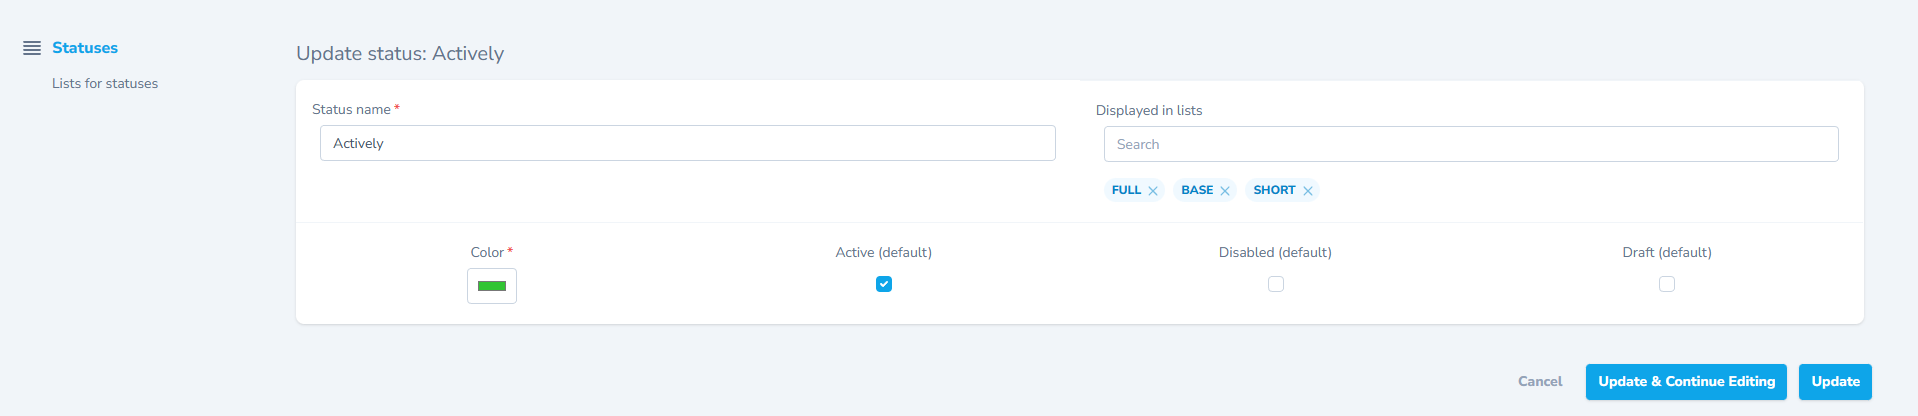
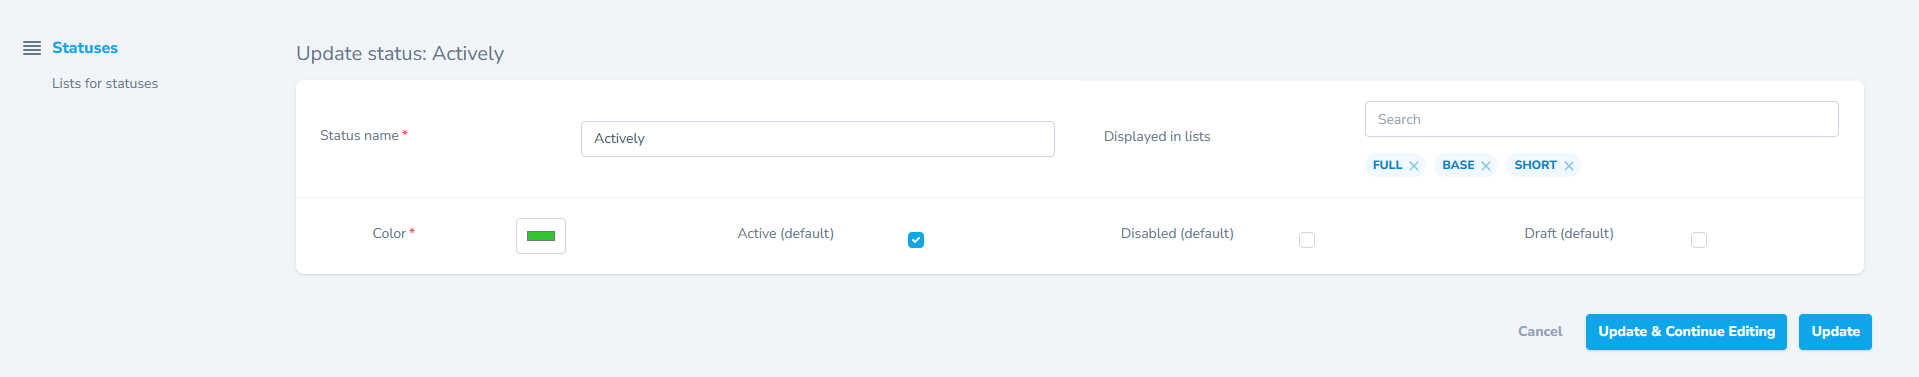
Removed unnecessary

diff --git a/src/Nova/StatusesResource.php b/src/Nova/StatusesResource.php
@@ -77,14 +77,12 @@ class StatusesResource extends Resource
                 ->hideFromIndex()
                 ->sortable()
                 ->rules('required')
-                ->width(6)
-                ->fullWidth(),
+                ->width(6),
             
             Tag::make(__('Displayed in lists'), 'lists', StatusesListResource::class)
                 ->preload()
                 ->hideFromIndex()
-                ->width(6)
-                ->fullWidth(),
+                ->width(6),
             
             Color::make(__('Color'), 'color')
                 ->hideFromIndex()
